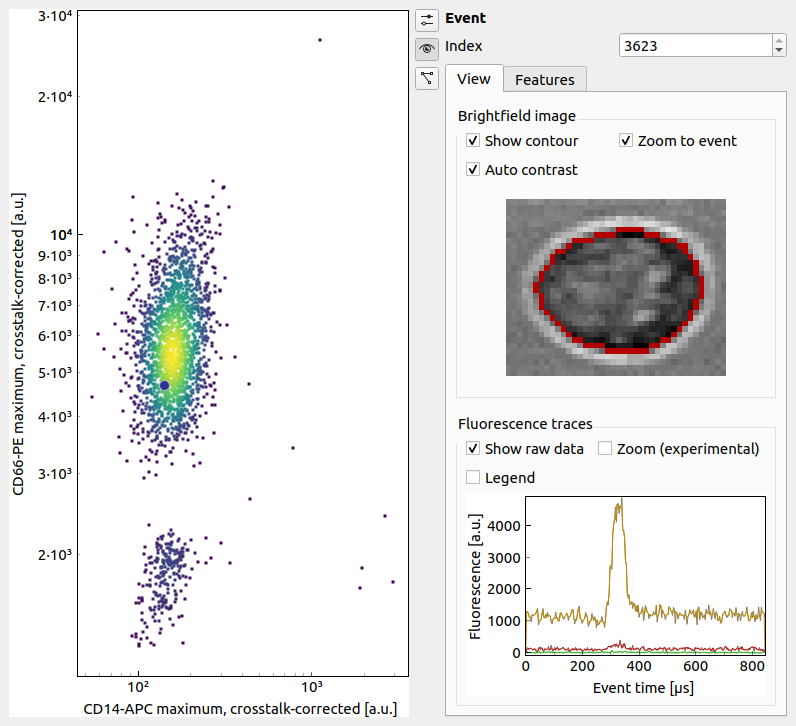
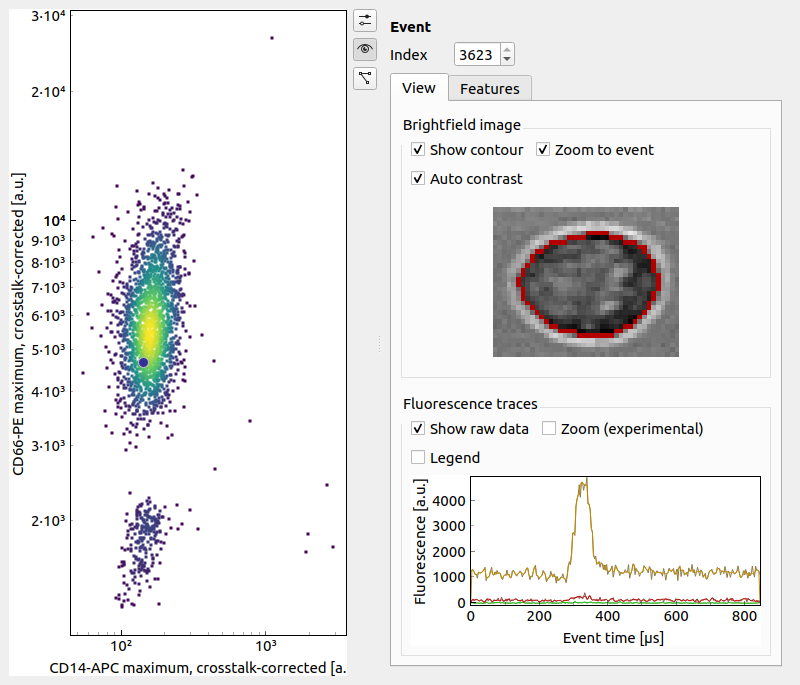
docs: update screenshot scripts

diff --git a/docs/scrots/make_scrots_ui.py b/docs/scrots/make_scrots_ui.py
@@ -2,7 +2,6 @@
 
 Data available at https://doi.org/10.6084/m9.figshare.11302595.v1
 """
-
 import pathlib
 import sys
 
@@ -72,6 +71,8 @@ idy = mw.widget_quick_view.comboBox_y.findData("fl2_max_ctc")
 mw.widget_quick_view.comboBox_y.setCurrentIndex(idy)
 mw.widget_quick_view.comboBox_xscale.setCurrentIndex(1)
 mw.widget_quick_view.comboBox_yscale.setCurrentIndex(1)
+mw.widget_quick_view.checkBox_hue.click()
+mw.widget_quick_view.toolButton_apply.click()
 QApplication.processEvents(QtCore.QEventLoop.AllEvents, 300)
 mw.widget_quick_view.grab().save("_ui_qv_settings.png")
 mw.widget_quick_view.toolButton_event.toggle()

diff --git a/docs/scrots/make_scrots_qg_statistics.py b/docs/scrots/make_scrots_qg_statistics.py
@@ -30,7 +30,7 @@ dlg.path = "/some/other/path/to/data"
 dlg.lineEdit_path.setText(dlg.path)
 dlg.comboBox.setCurrentIndex(1)
 dlg.comboBox_filter_ray.setCurrentIndex(1)
-dlg.bulklist_features.listWidget.item(2).setCheckState(2)
+dlg.bulklist_features.listWidget.item(4).setCheckState(2)
 QApplication.processEvents(QtCore.QEventLoop.AllEvents, 300)
 dlg.grab().save("_qg_statistics_folder.png")
 
